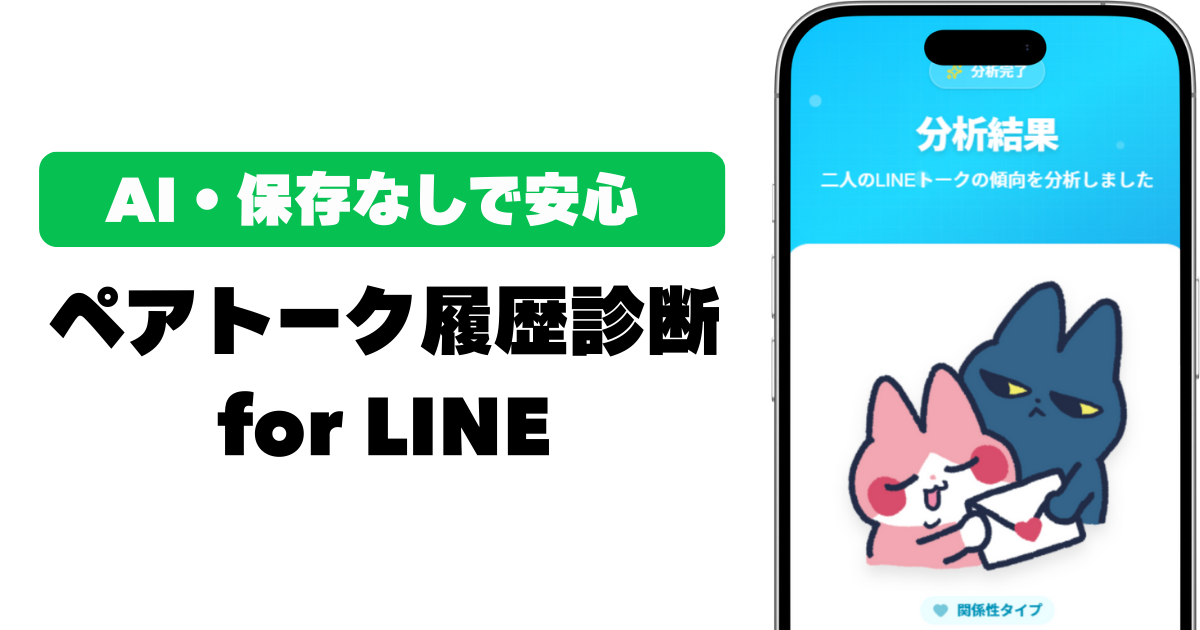
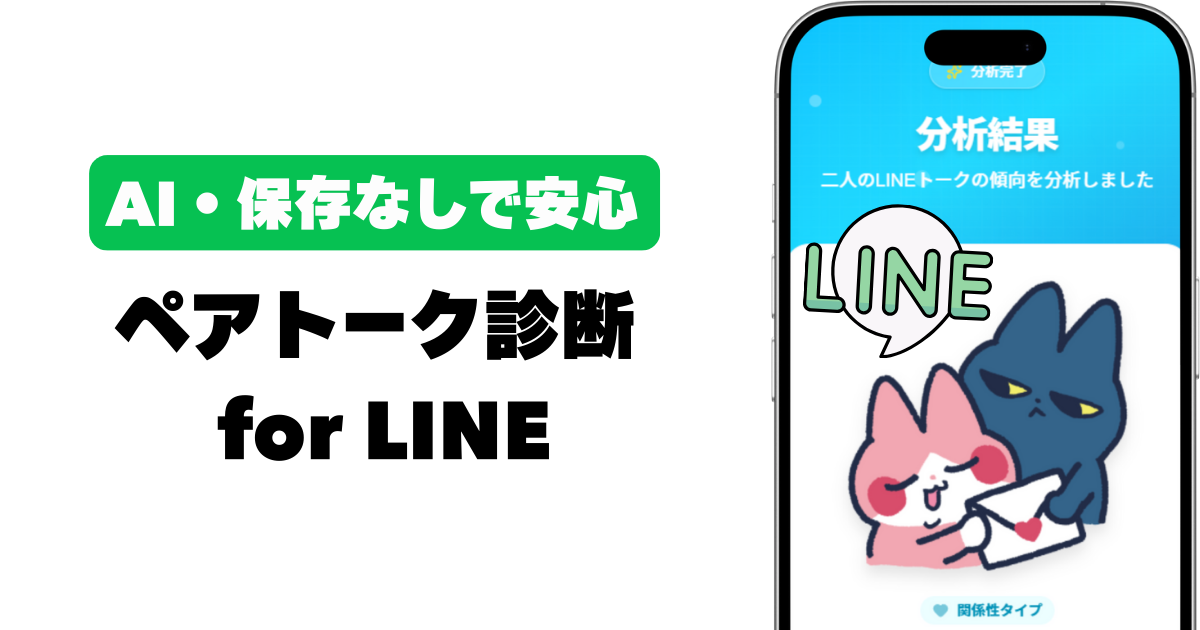
2

diff --git a/app/page.tsx b/app/page.tsx
@@ -291,7 +291,7 @@ const FadeIn = ({ children, delay = 0 }: { children: React.ReactNode; delay?: nu
 // グラスモーフィズムヘッダー（スマホ用）- 16personalities風の明るいデザイン
 const GlassHeader = () => {
   const shareUrl = typeof window !== 'undefined' ? window.location.href : 'https://pairtalk.site';
-  const shareText = 'ペアトーク診断 for LINE - LINEトーク履歴を分析して、二人の関係性を診断！';
+                      const shareText = 'ペアトーク診断 for LINE - 二人のLINEトークを診断！12種類＋1種類の中から何になるかな？';
 
   const handleShare = () => {
     if (navigator.share) {
@@ -2721,7 +2721,7 @@ export default function TalkLensPage() {
                   <button
                     onClick={() => {
                       const shareUrl = typeof window !== 'undefined' ? window.location.href : 'https://writter-project.com/talklens';
-                      const shareText = 'ペアトーク診断 for LINE - LINEトーク履歴を分析して、二人の関係性を診断！';
+                      const shareText = 'ペアトーク診断 for LINE - 二人のLINEトークを診断！12種類＋1種類の中から何になるかな？';
                       const url = `https://twitter.com/intent/tweet?text=${encodeURIComponent(shareText)}&url=${encodeURIComponent(shareUrl)}`;
                       window.open(url, '_blank', 'width=550,height=420');
                     }}
@@ -2760,7 +2760,7 @@ export default function TalkLensPage() {
                   />
                 </div>
                 <a
-                  href="https://x.com"
+                  href="https://x.com/mio_ney?s=21&t=4GzdYuJCnpD9cQmMyh5ZzA"
                   target="_blank"
                   rel="noopener noreferrer"
                   className="inline-flex items-center gap-2 px-5 py-2.5 bg-black text-white text-sm font-bold rounded-full hover:bg-slate-800 transition-all hover:scale-105 shadow-md"

diff --git a/app/_components/footer.tsx b/app/_components/footer.tsx
@@ -57,7 +57,7 @@ export function Footer() {
   const [showTerms, setShowTerms] = useState(false)
 
   const shareUrl = typeof window !== 'undefined' ? window.location.href : 'https://writter-project.com/talklens'
-  const shareText = 'TalkLens - LINEトーク履歴を分析して、二人の関係性を可視化できるツール！'
+  const shareText = 'ペアトーク診断 for LINE - 二人のLINEトークを診断！12種類＋1種類の中から何になるかな？'
 
   const handleShareTwitter = () => {
     const url = `https://twitter.com/intent/tweet?text=${encodeURIComponent(shareText)}&url=${encodeURIComponent(shareUrl)}`
@@ -89,9 +89,9 @@ export function Footer() {
             <span className="text-slate-300">|</span>
             <button onClick={() => setShowPrivacy(true)} className="hover:text-slate-900 transition-colors">プライバシーポリシー</button>
             <span className="text-slate-300">|</span>
-            <a href="https://golden-beam.com/contact" target="_blank" rel="noopener noreferrer" className="hover:text-slate-900 transition-colors">法人お問い合わせ</a>
+            <a href="https://goldenbeam.co.jp/contact/" target="_blank" rel="noopener noreferrer" className="hover:text-slate-900 transition-colors">法人お問い合わせ</a>
             <span className="text-slate-300">|</span>
-            <a href="https://golden-beam.com" target="_blank" rel="noopener noreferrer" className="hover:text-slate-900 transition-colors">運営会社</a>
+            <a href="https://goldenbeam.co.jp/" target="_blank" rel="noopener noreferrer" className="hover:text-slate-900 transition-colors">運営会社</a>
           </div>
 
           {/* SNS Share Section */}

diff --git a/app/layout.tsx b/app/layout.tsx
@@ -32,7 +32,7 @@ export const metadata: Metadata = {
   },
   openGraph: {
     title: "ペアトーク診断 for LINE",
-    description: "LINEのトーク履歴を分析して、二人の関係性を診断します",
+    description: "二人のLINEトークを診断！12種類＋1種類の中から何になるかな？",
     url: "https://pairtalk.site",
     siteName: "ペアトーク診断 for LINE",
     locale: "ja_JP",
@@ -49,7 +49,7 @@ export const metadata: Metadata = {
   twitter: {
     card: "summary_large_image",
     title: "ペアトーク診断 for LINE",
-    description: "LINEのトーク履歴を分析して、二人の関係性を診断します",
+    description: "二人のLINEトークを診断！12種類＋1種類の中から何になるかな？",
     images: ["/talklens/pairtalkOGP.png"],
   },
   icons: {
